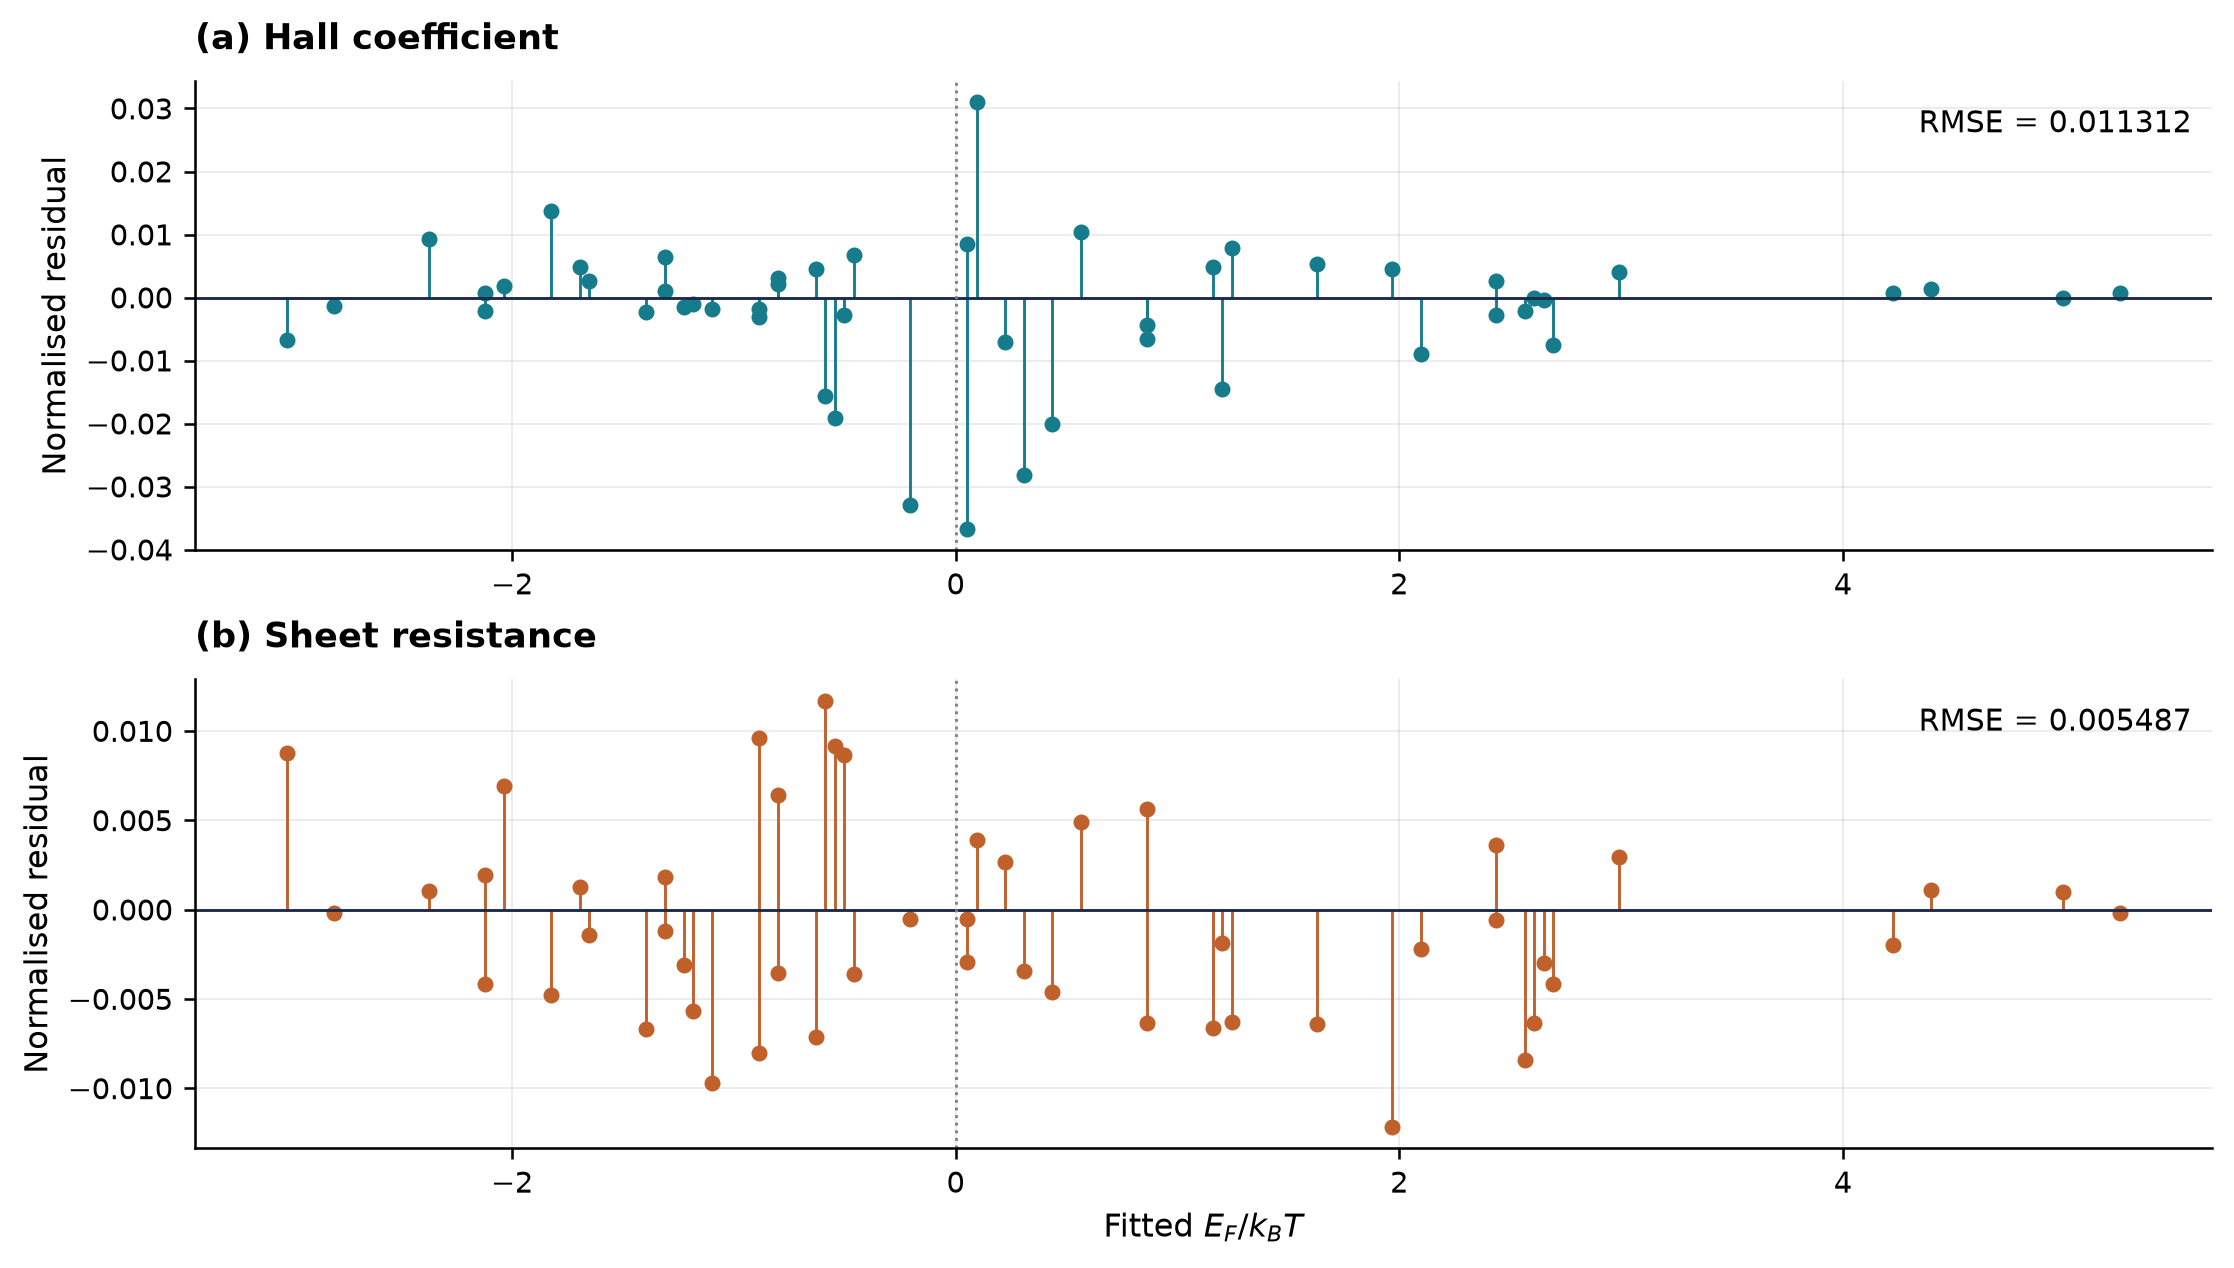
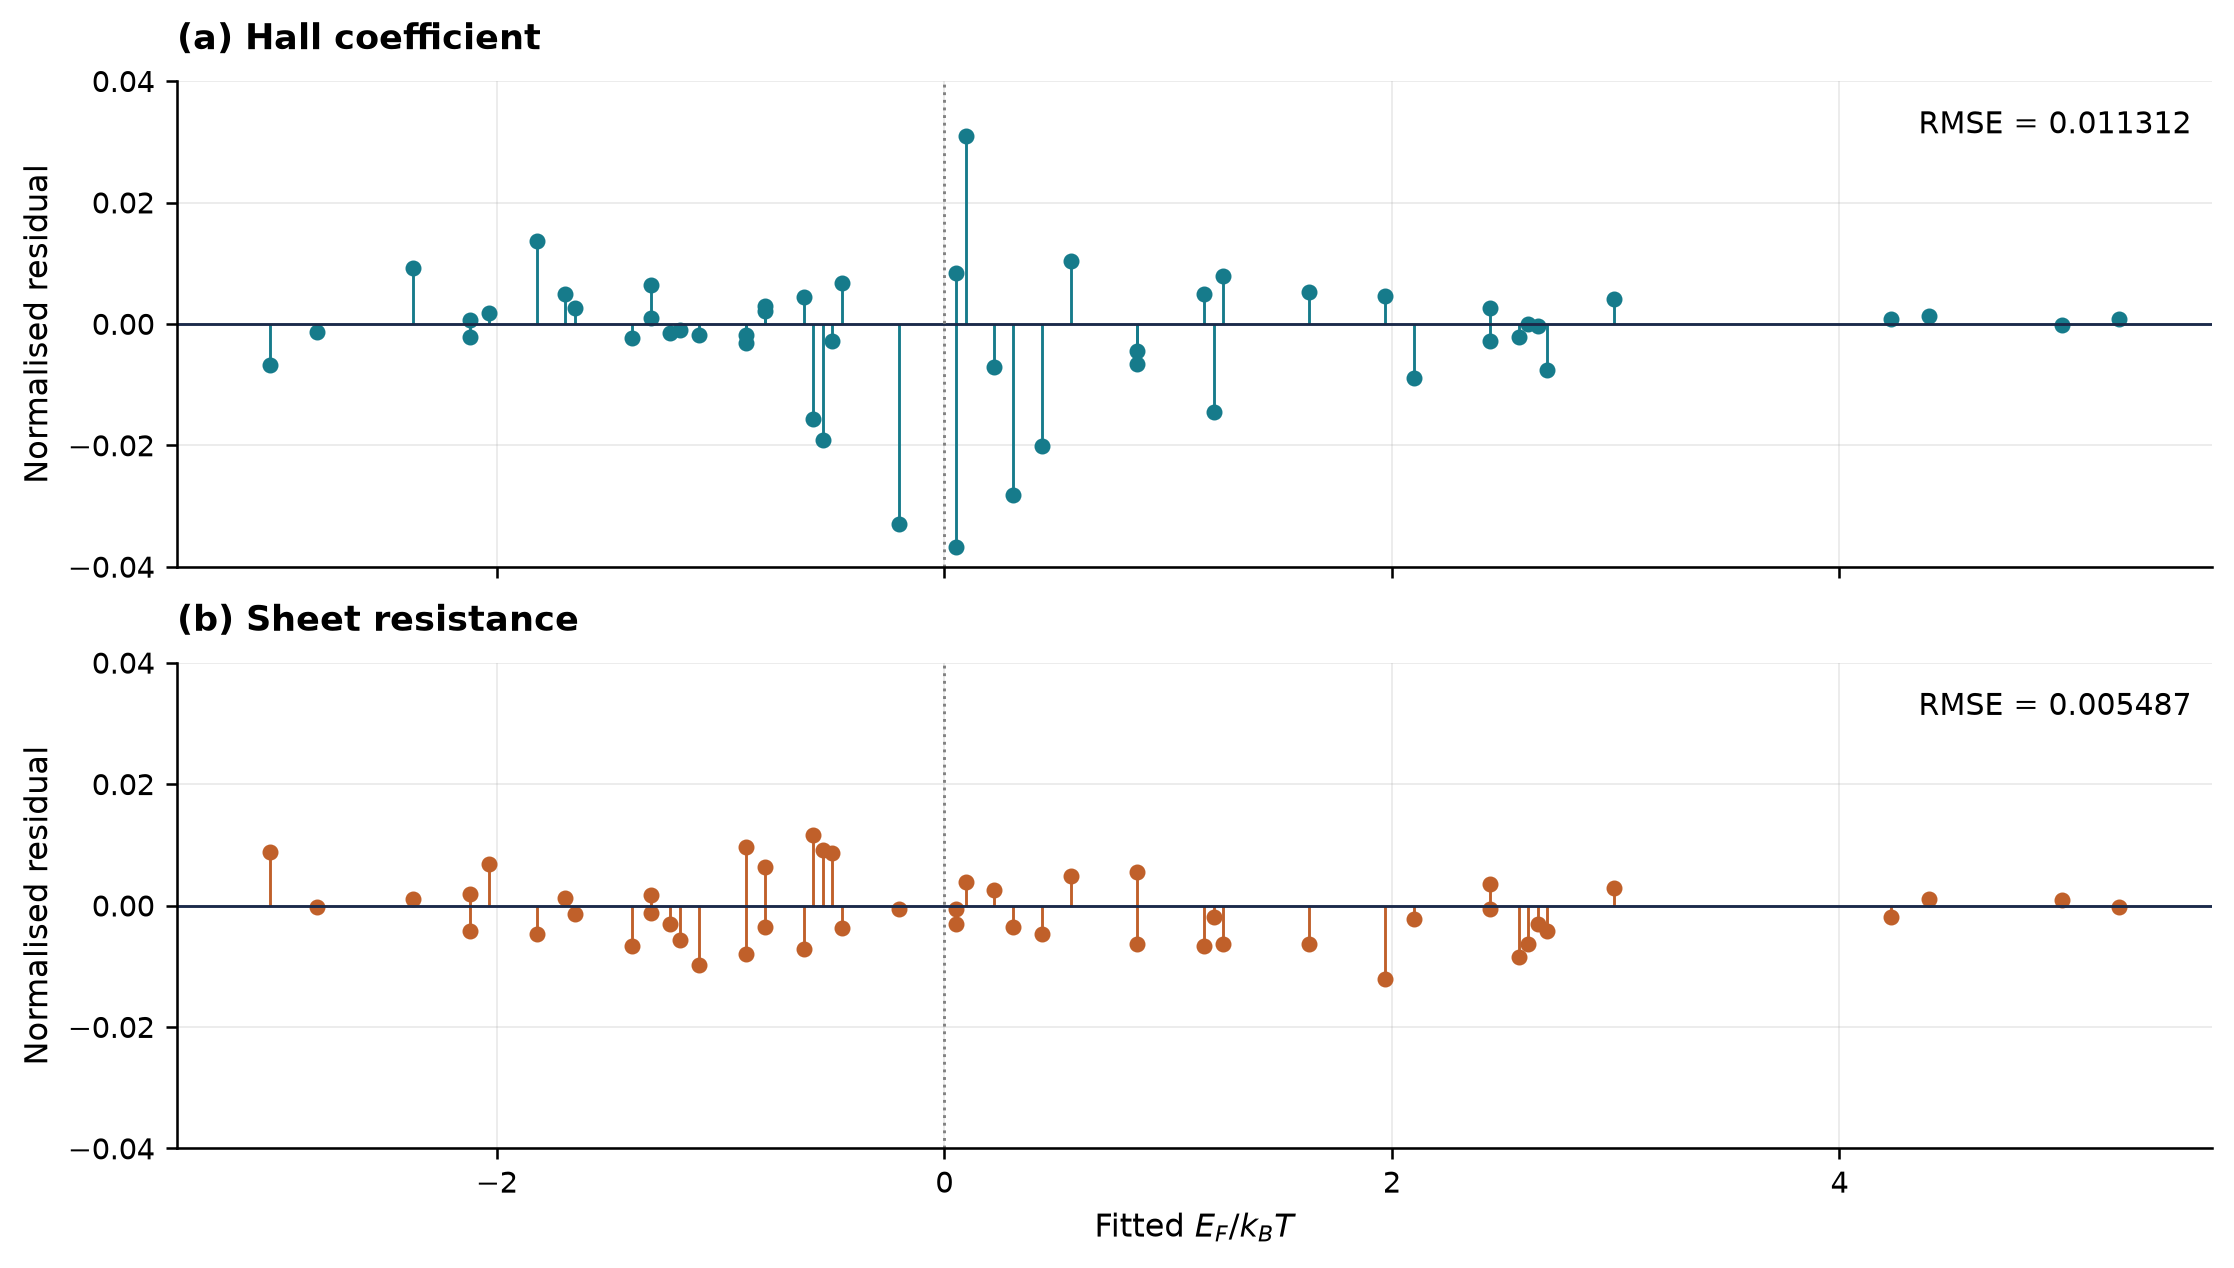
Fig 7: fix the y-range to +/-0.04 on both panels to match the report

diff --git a/src/report_figures.py b/src/report_figures.py
@@ -290,9 +290,13 @@ def fig07(d):
         ax.plot(ef, res[:, col], "o", color=c, ms=4)
         ax.axhline(0, color=NAVY, lw=0.9)
         ax.axvline(0, color="gray", ls=":", lw=0.9)
+        ax.set_ylim(-0.04, 0.04)          # same fixed range as the report, both panels
+        ax.set_yticks([-0.04, -0.02, 0.00, 0.02, 0.04])
         ax.text(0.99, 0.94, f"RMSE = {rmse[col]:.6f}", transform=ax.transAxes,
                 ha="right", va="top", fontsize=9.5)
         style(ax, title, None if col == 0 else r"Fitted $E_F/k_B T$", "Normalised residual")
+        if col == 0:
+            ax.tick_params(labelbottom=False)
     save(fig, "fig07_report.png")
 
 
